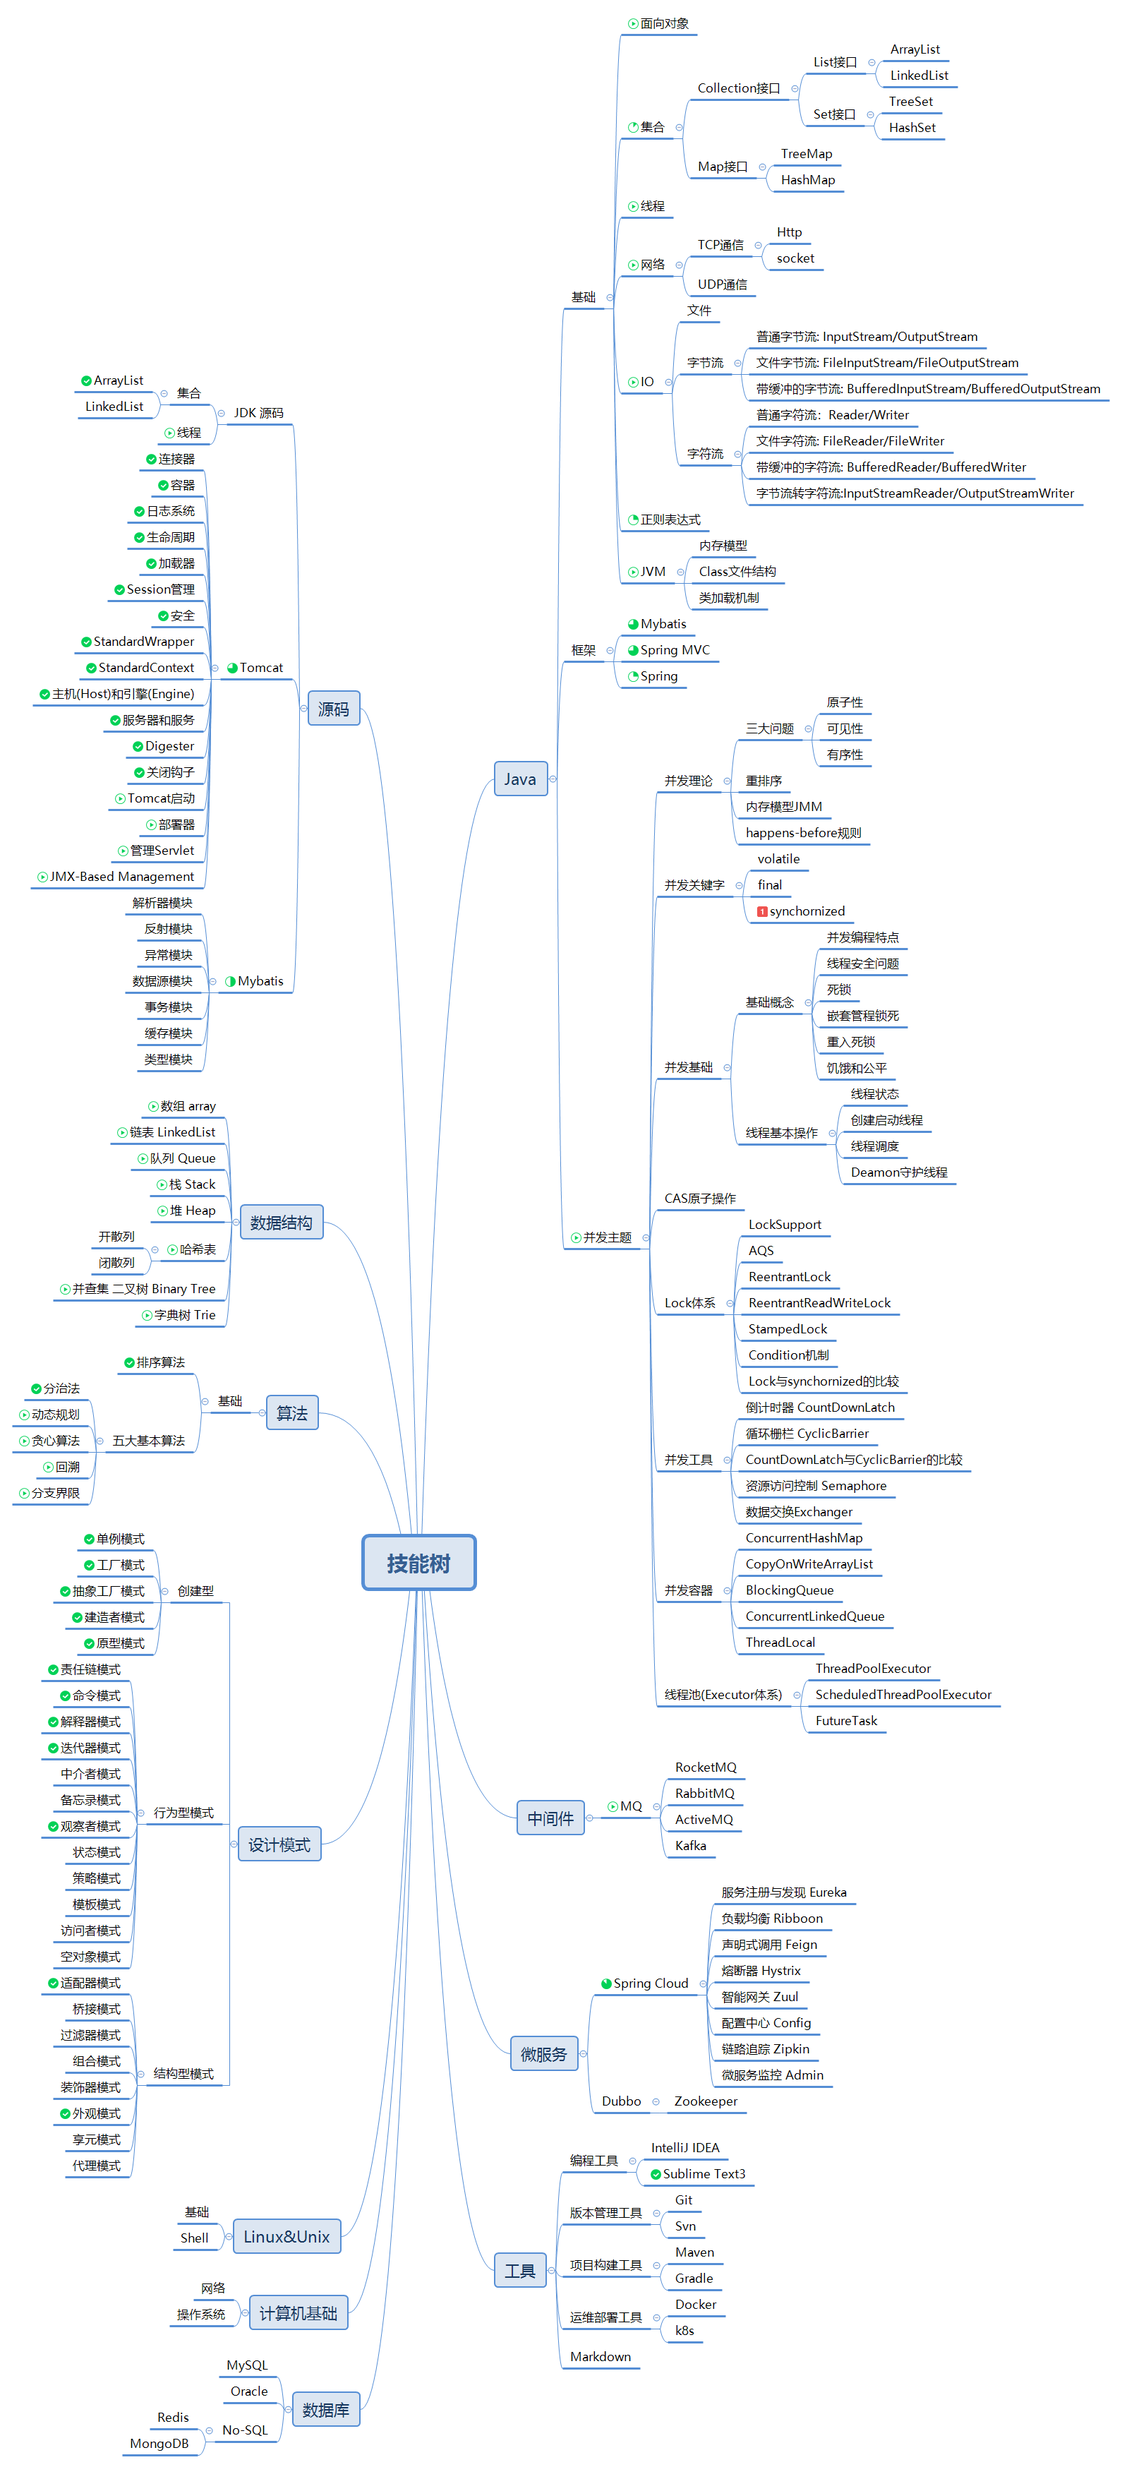
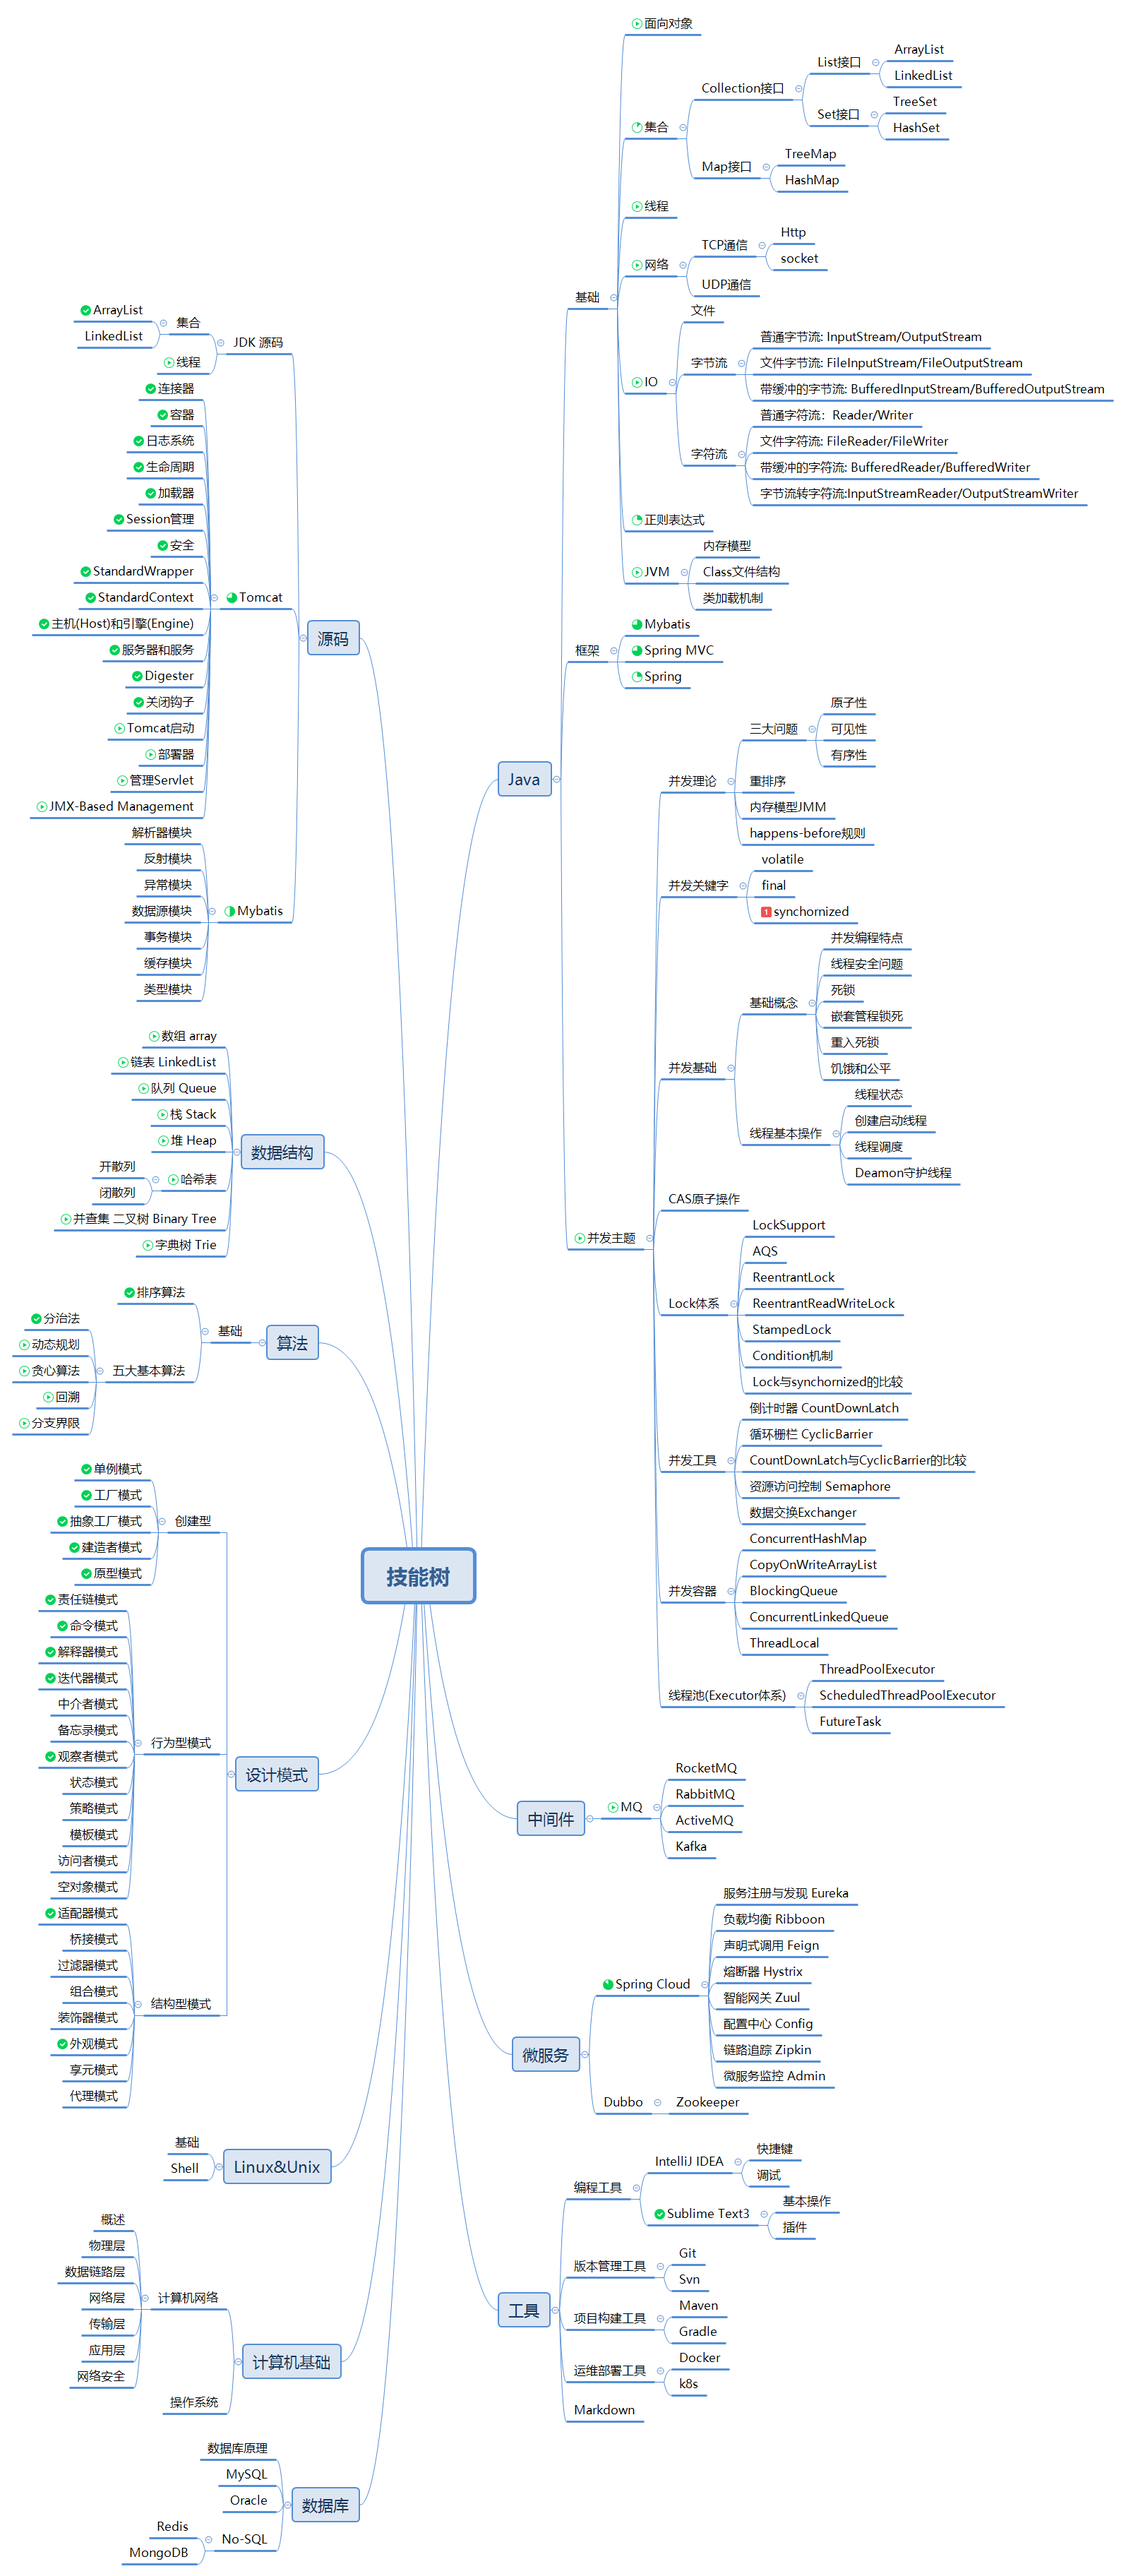
update

diff --git a/source/_posts/计算机网络-概述.md b/source/_posts/计算机网络-概述.md
@@ -25,3 +25,19 @@ date: 2019-11-28
 	- 1985年起，美国国家科学基金会NSF(National Science Foundation)围绕六个大型计算机中心建设计算机网络(NSFNET)。它是一个三级计算机网络，分为**主干网**、**地区网**和**校园网**
 3. 第三个阶段的特点是逐渐形成了**多层次ISP结构的因特网**
 	- ISP(联网提供服务商)可以从互联网管理机构申请到多个IP地址，因此其他机构和个人只要向ISP交纳一定费用，就可以得到IP地址，从而接入到因特网
+
+## 因特网的组成
+- 从工作方式上看，可以划分为以下两大块
+	- 边缘部分 由连接在因特网上的主机组成，这部分是用户直接使用的
+	- 核心部分 由大量网络和连接这些网络的路由器组成
+
+### 因特网的边缘部分
+- 主机之间的通信
+	1. 客户服务器方式(C/S方式)
+{% asset_img CS.png 客服服务器方式通讯 %}
+	2. 对等方式(P2P方式)}
+{% asset_img P2P.png 对等方式通讯 }
+
+### 因特网的核心部分
+1. 电路交换
+2. 分组交换
